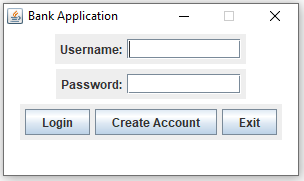
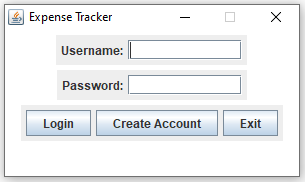
Images fixed

diff --git a/Expense Tracker/src/CreateAccountGUI.java b/Expense Tracker/src/CreateAccountGUI.java
@@ -39,7 +39,7 @@ public class CreateAccountGUI {
 	
 	private void layoutManager() {
 
-		frame = new JFrame("Bank Application");
+		frame = new JFrame("Expense Tracker");
 		frame.setSize(300, 190);
 		frame.setResizable(false);
 		frame.getContentPane().setBackground(Color.white);

diff --git a/Expense Tracker/src/LoginGUI.java b/Expense Tracker/src/LoginGUI.java
@@ -37,7 +37,7 @@ public class LoginGUI {
 	
 	private void layoutManager() {
 
-		frame = new JFrame("Bank Application");
+		frame = new JFrame("Expense Tracker");
 		frame.setSize(300, 175);
 		frame.setResizable(false);
 		frame.getContentPane().setBackground(Color.white);
